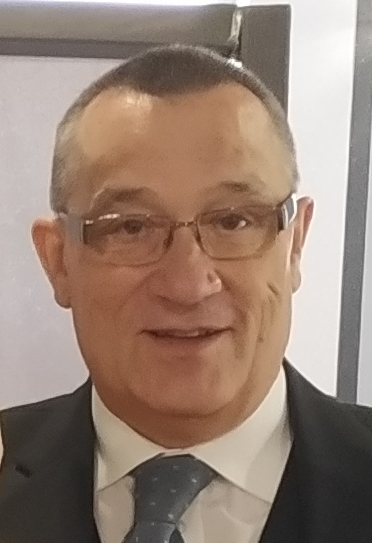
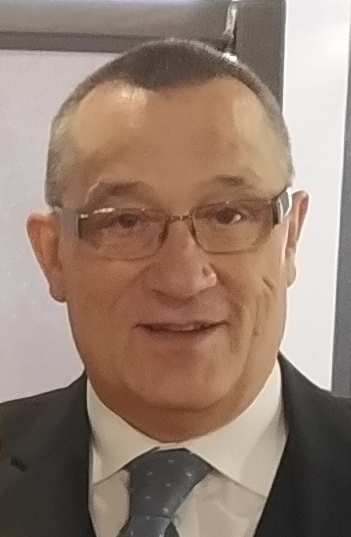
addedBalanceTable

diff --git a/index.html b/index.html
@@ -46,19 +46,76 @@
         <div class="col-1 balanceSheet__leftField"></div>
         <div class="col-10 balanceSheet__result">
           <div>
-            <h2>tu będzie wynik:możesz jeszcze wydać: 6542 zł</h2>
+            <h1>Bilans jest dodatni - możesz jeszcze wydać: 12 642 zł</h1>
           </div>
         </div>
         <div class="col-1 balanceSheet__rightField"></div>
       </div>
 
       <div class="row inputFields">
-        <div class="col-6 inputFields__incomes"></div>
-        <div class="col-6 inputFields__expenses"></div>
+        <div class="col-6 inputFields__incomes">
+          <h1>PRZYCHODY:</h1>
+          <div class="inputFields__incomes--inputArea">
+            <input placeholder="Nazwa przychodu" />
+            <input placeholder="Kwota" />
+            <button>DODAJ</button>
+          </div>
+        </div>
+
+        <div class="col-6 inputFields__expenses">
+          <h1>WYDATKI:</h1>
+          <div class="inputFields__expenses--inputArea">
+            <input placeholder="Nazwa wydatku" />
+            <input placeholder="Kwota" />
+            <button>DODAJ</button>
+          </div>
+        </div>
       </div>
 
       <section class="row balanceTable">
-        <div class="col-6 balanceTable__incomes" id="incomes"></div>
+        <div class="col-6 balanceTable__incomes" id="incomes">
+          <div>
+            <div class="balanceTable__incomes--container">
+              <div>
+                <ul>
+                  <li>
+                    <div class="balanceTable__incomes--list">
+                      <p>jeden dodatkowy tekst</p>
+                      <button>Edytuj</button><button>Usuń</button>
+                    </div>
+                  </li>
+                  <li>
+                    <div class="balanceTable__incomes--list">
+                      <p>jeden dodatkowy tekst</p>
+                      <button>Edytuj</button><button>Usuń</button>
+                    </div>
+                  </li>
+                  <li>
+                    <div class="balanceTable__incomes--list">
+                      <p>jeden dodatkowy tekst</p>
+                      <button>Edytuj</button><button>Usuń</button>
+                    </div>
+                  </li>
+                  <li>
+                    <div class="balanceTable__incomes--list">
+                      <p>jeden dodatkowy tekst</p>
+                      <button>Edytuj</button><button>Usuń</button>
+                    </div>
+                  </li>
+                  <li>
+                    <div class="balanceTable__incomes--list">
+                      <p>jeden dodatkowy tekst</p>
+                      <button>Edytuj</button><button>Usuń</button>
+                    </div>
+                  </li>
+                </ul>
+              </div>
+              <h1 class="balanceTable__incomes--summary">
+                SUMA PRZYCHODÓW: 44 987 zł
+              </h1>
+            </div>
+          </div>
+        </div>
         <div class="col-6 balanceTable__expenses" id="expenses"></div>
       </section>
       <div class="row aboutMe" id="aboutMe">

diff --git a/css/main.css b/css/main.css
@@ -478,7 +478,7 @@ a {
   text-decoration: none;
 }
 
-h2 {
+h1 {
   font-family: "Raleway", sans-serif;
   font-size: 2.25rem;
 }
@@ -798,22 +798,46 @@ h2 {
 }
 .balanceTable__incomes {
   background-color: red;
+  border: solid 1px black;
+}
+.balanceTable__incomes--list {
+  display: flex;
+  justify-content: space-between;
+  padding-left: 1%;
+  padding-right: 1%;
+}
+.balanceTable__incomes--container {
+  display: flex;
+  flex-direction: column;
+  justify-content: space-between;
 }
 .balanceTable__expenses {
   background-color: red;
+  border: solid 1px black;
+}
+.balanceTable__expenses--list {
+  display: flex;
+  justify-content: space-between;
+  padding-left: 1%;
+  padding-right: 1%;
+}
+.balanceTable__expenses--container {
+  display: flex;
+  flex-direction: column;
+  justify-content: space-between;
 }
 
 .aboutMe__myPicture {
   border: blue 2px solid;
   border-radius: 20px;
   background-image: url("/assets/Photo.jpg");
-  background-size: contain;
+  background-size: cover;
   background-repeat: no-repeat;
 }
 .aboutMe__myCV {
   background-color: #e1e2e3;
   border: blue 2px solid;
-  border-radius: 20px;
+  border-radius: 21px;
 }
 .aboutMe__myCV h2 {
   text-align: center;

diff --git a/scss/elements/_balanceTable.scss b/scss/elements/_balanceTable.scss
@@ -1,9 +1,38 @@
 .balanceTable{
+    
     height: 600px;
     &__incomes{
         background-color: red;
+        border: solid 1px black;
+        &--list{
+            display:flex;
+            justify-content:space-between;
+            padding-left: 1%;
+            padding-right: 1%;
+        }
+        &--container{
+            display:flex;
+            flex-direction: column;
+            justify-content: space-between;
+        }
+
+        
     }
     &__expenses{
         background-color: red;
-    }
+        border: solid 1px black;
+        &--list{
+            display:flex;
+            justify-content:space-between;
+            padding-left: 1%;
+            padding-right: 1%;
+        }
+        &--container{
+            display:flex;
+            flex-direction: column;
+            justify-content: space-between;
+        }
+
+    }      
+    
 }

diff --git a/scss/elements/_aboutMe.scss b/scss/elements/_aboutMe.scss
@@ -6,7 +6,8 @@
     border: blue 2px solid;
     border-radius: 20px;
     background-image: url("/assets/Photo.jpg");
-    background-size:contain;
+    background-size:cover;
+    ;
     background-repeat: no-repeat;
     
   }

diff --git a/scss/elements/_basic.scss b/scss/elements/_basic.scss
@@ -24,7 +24,7 @@ a {
   text-decoration: none;
 }
 
-h2 {
+h1 {
   font-family: $font-raleway;
   font-size: 2.25rem;
 }
